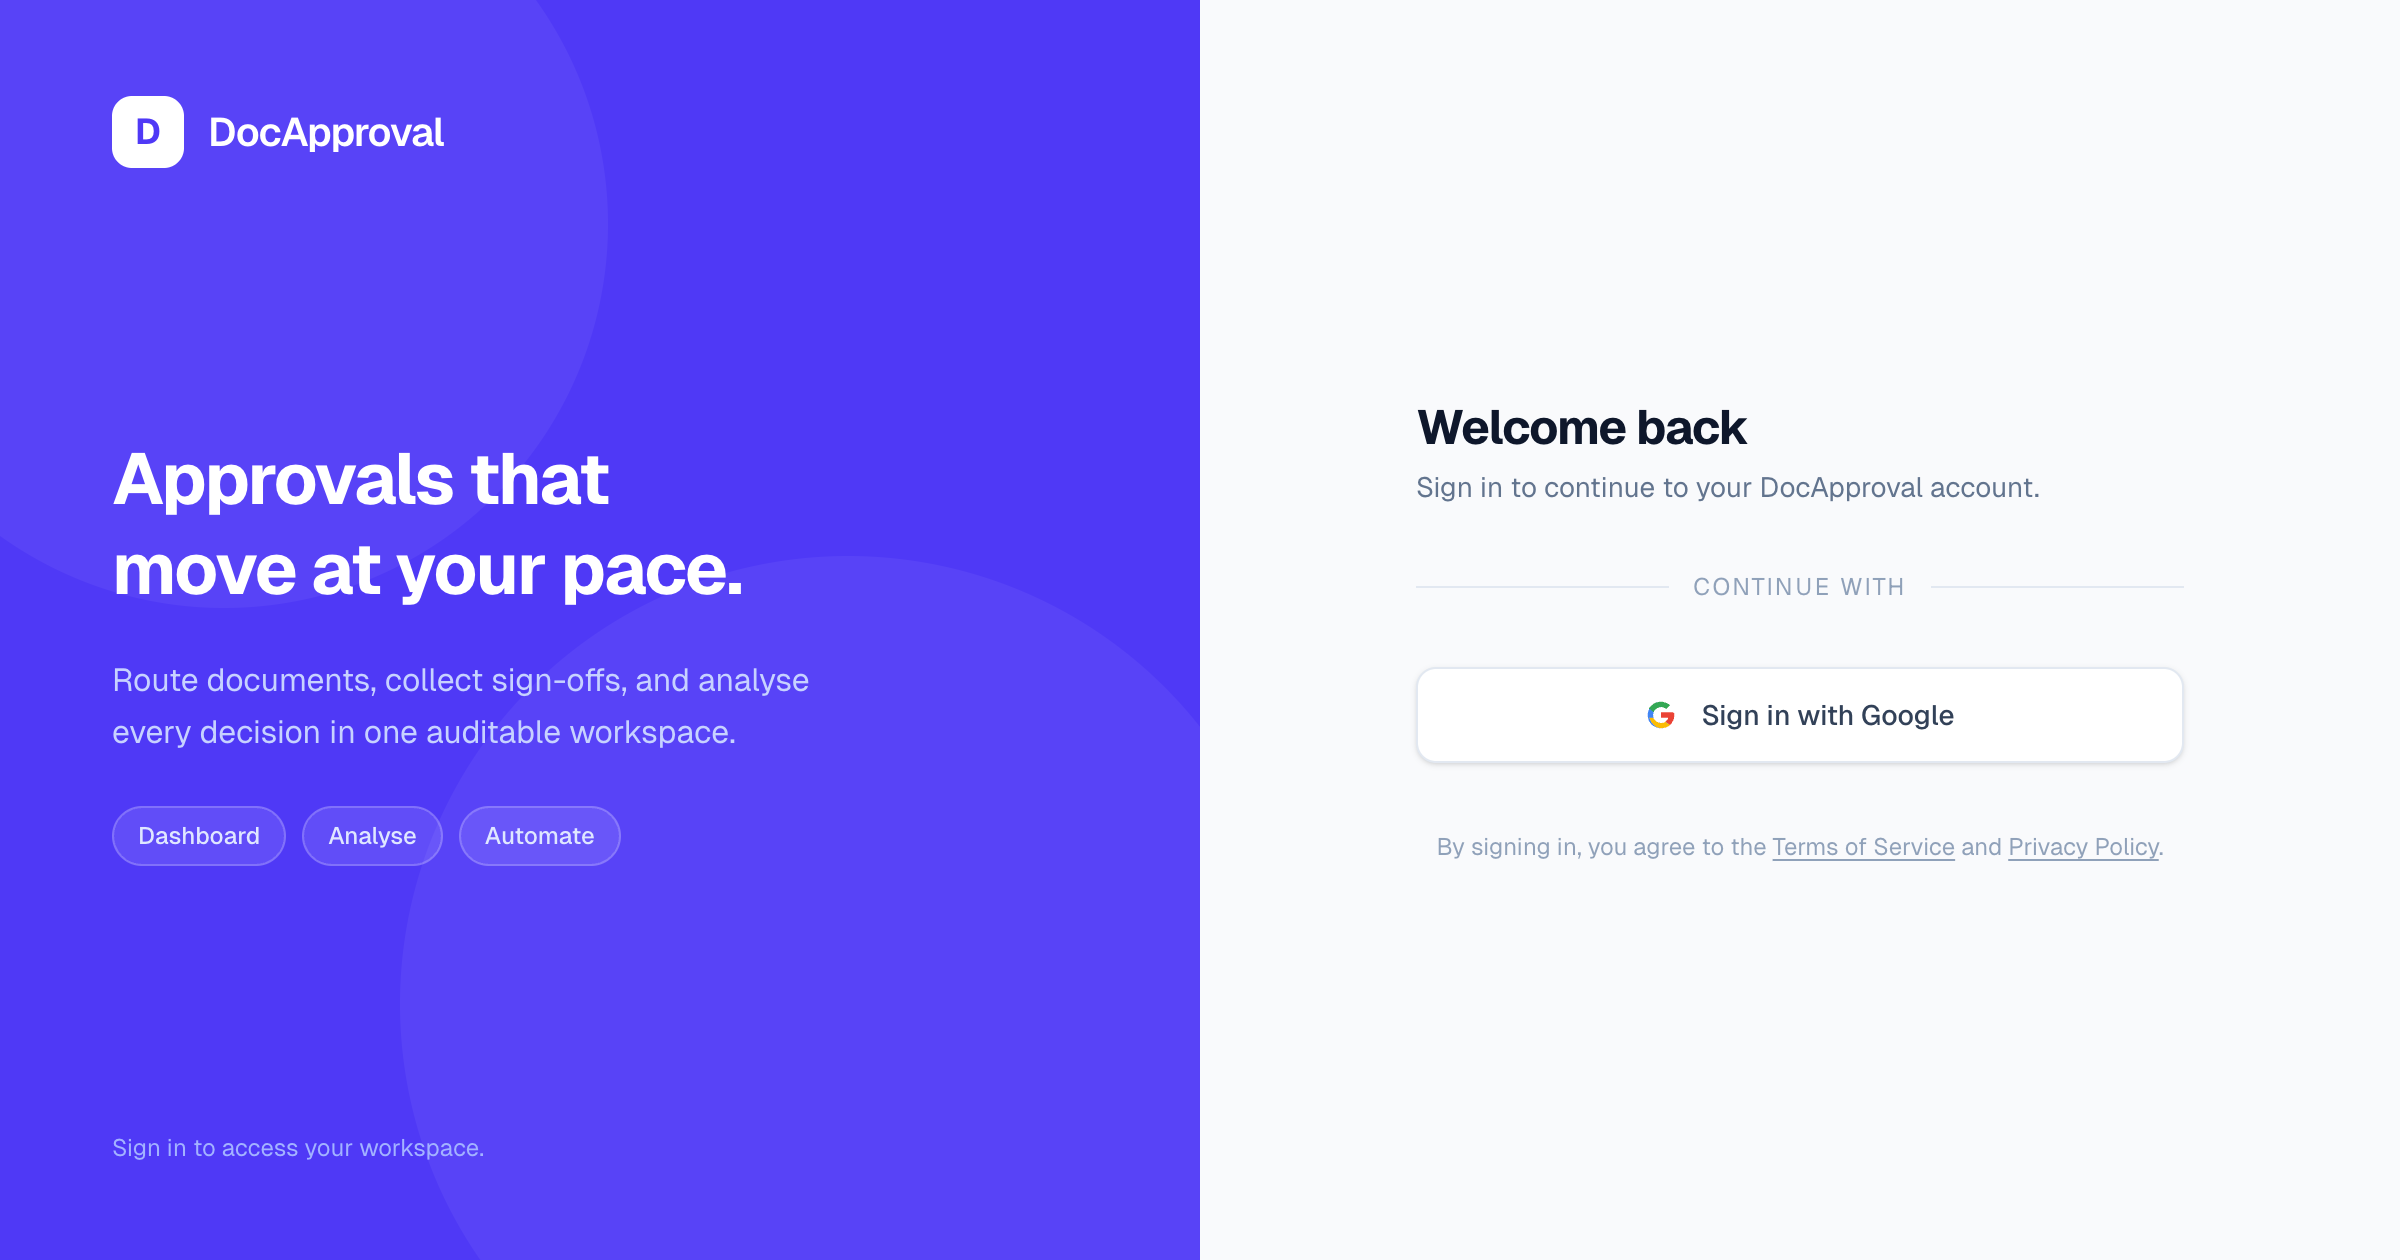
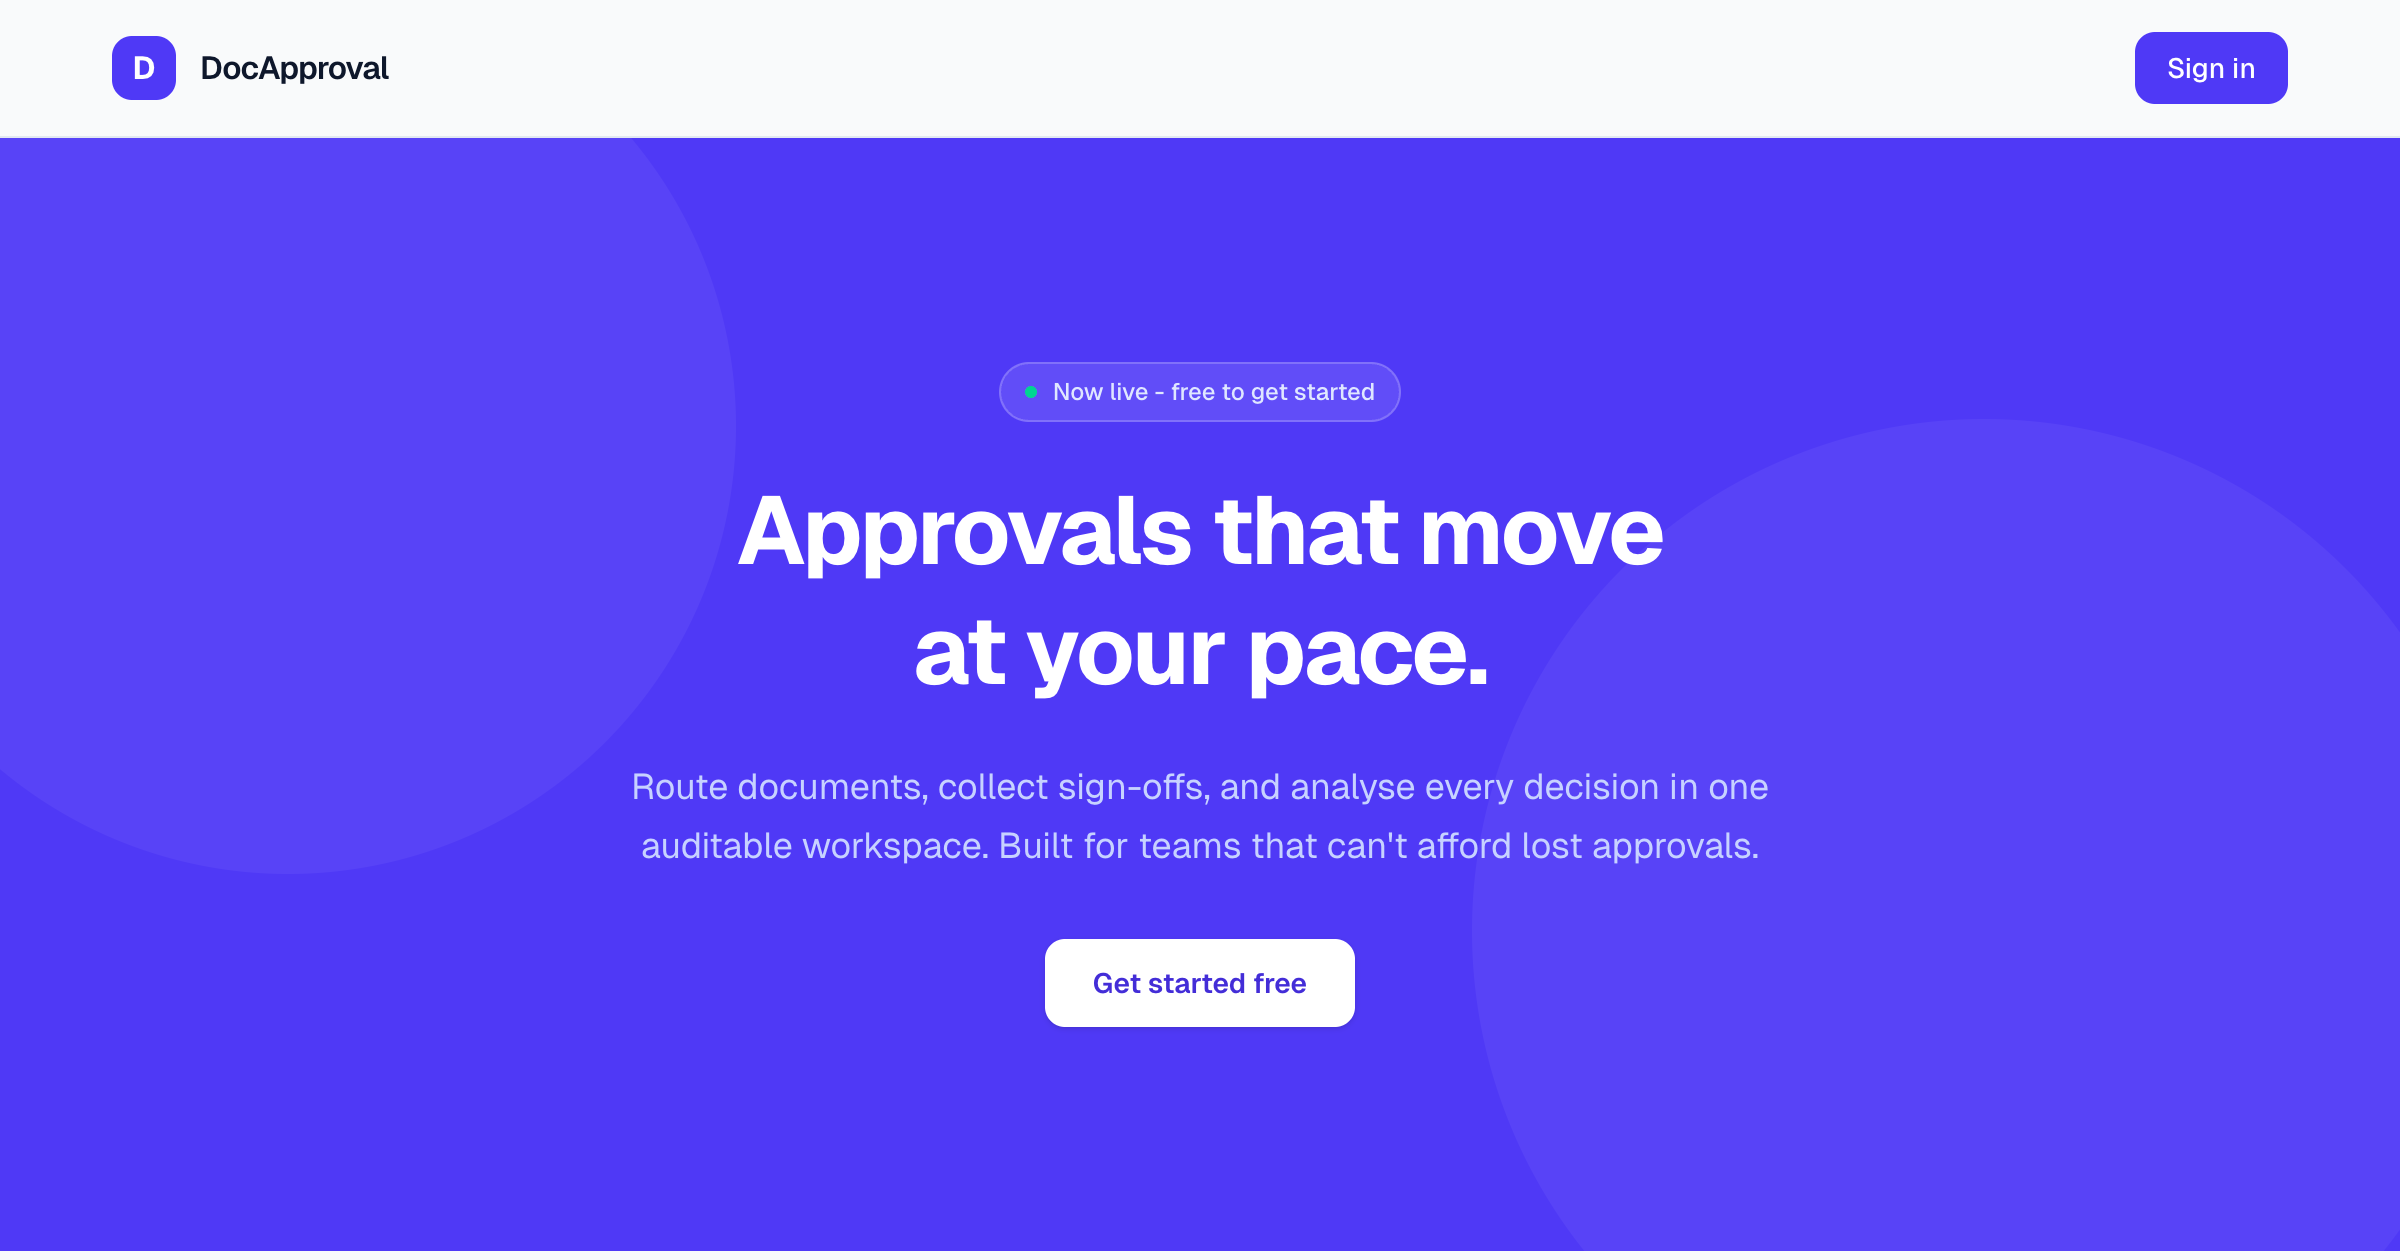
feat: updated dynamic og-image and added a fallback og-image

diff --git a/src/app/opengraph-image.tsx b/src/app/opengraph-image.tsx
@@ -1,33 +1,177 @@
 import { ImageResponse } from "next/og";
 
 export const runtime = "edge";
-export const alt = "DocApproval";
+export const alt = "DocApproval – Approvals that move at your pace.";
 export const size = { width: 1200, height: 630 };
 export const contentType = "image/png";
 
 export default async function Image() {
+    // Load Inter from Google Fonts (edge-compatible)
+    const interSemiBold = await fetch(
+        "https://fonts.gstatic.com/s/inter/v13/UcCO3FwrK3iLTeHuS_fvQtMwCp50KnMw2boKoduKmMEVuLyfAZ9hiA.woff2"
+    ).then((res) => res.arrayBuffer());
+
+    const interBold = await fetch(
+        "https://fonts.gstatic.com/s/inter/v13/UcCO3FwrK3iLTeHuS_fvQtMwCp50KnMw2boKoduKmMEVuFuYAZ9hiA.woff2"
+    ).then((res) => res.arrayBuffer());
+
     return new ImageResponse(
         (
             <div
                 style={{
-                    background: "#0a0a0a",
                     width: "100%",
                     height: "100%",
                     display: "flex",
                     flexDirection: "column",
                     alignItems: "center",
                     justifyContent: "center",
-                    fontFamily: "sans-serif",
+                    background: "#4f46e5", // indigo-600
+                    position: "relative",
+                    overflow: "hidden",
+                    fontFamily: "Inter",
                 }}
             >
-                <div style={{ fontSize: 72, fontWeight: 700, color: "#ffffff" }}>
-                    DocApproval
-                </div>
-                <div style={{ fontSize: 32, color: "#888888", marginTop: 16 }}>
-                    Streamline your document approval workflow
+                {/* Decorative ring — top-left (matches homepage -top-20 -left-20 w-[28rem]) */}
+                <div
+                    style={{
+                        position: "absolute",
+                        top: -120,
+                        left: -120,
+                        width: 560,
+                        height: 560,
+                        borderRadius: "50%",
+                        background: "rgba(255,255,255,0.05)",
+                    }}
+                />
+
+                {/* Decorative ring — bottom-right (matches homepage -bottom-24 -right-12 w-[32rem]) */}
+                <div
+                    style={{
+                        position: "absolute",
+                        bottom: -140,
+                        right: -80,
+                        width: 640,
+                        height: 640,
+                        borderRadius: "50%",
+                        background: "rgba(255,255,255,0.05)",
+                    }}
+                />
+
+                {/* Content stack */}
+                <div
+                    style={{
+                        display: "flex",
+                        flexDirection: "column",
+                        alignItems: "center",
+                        gap: 0,
+                        zIndex: 10,
+                        maxWidth: 900,
+                        textAlign: "center",
+                        padding: "0 48px",
+                    }}
+                >
+                    {/* Logo mark */}
+                    <div
+                        style={{
+                            display: "flex",
+                            alignItems: "center",
+                            gap: 14,
+                            marginBottom: 32,
+                        }}
+                    >
+                        <div
+                            style={{
+                                width: 52,
+                                height: 52,
+                                borderRadius: 12,
+                                background: "#ffffff",
+                                display: "flex",
+                                alignItems: "center",
+                                justifyContent: "center",
+                                color: "#4338ca", // indigo-700
+                                fontWeight: 700,
+                                fontSize: 26,
+                            }}
+                        >
+                            D
+                        </div>
+                        <span
+                            style={{
+                                color: "#ffffff",
+                                fontWeight: 600,
+                                fontSize: 28,
+                                letterSpacing: "-0.02em",
+                            }}
+                        >
+                            DocApproval
+                        </span>
+                    </div>
+
+                    {/* "Now live" badge */}
+                    <div
+                        style={{
+                            display: "flex",
+                            alignItems: "center",
+                            gap: 8,
+                            padding: "8px 18px",
+                            borderRadius: 9999,
+                            background: "rgba(255,255,255,0.10)",
+                            border: "1px solid rgba(255,255,255,0.20)",
+                            color: "#e0e7ff", // indigo-100
+                            fontSize: 18,
+                            fontWeight: 500,
+                            marginBottom: 28,
+                        }}
+                    >
+                        <div
+                            style={{
+                                width: 10,
+                                height: 10,
+                                borderRadius: "50%",
+                                background: "#34d399", // emerald-400
+                            }}
+                        />
+                        Now live · free to get started
+                    </div>
+
+                    {/* Headline */}
+                    <div
+                        style={{
+                            color: "#ffffff",
+                            fontWeight: 700,
+                            fontSize: 72,
+                            lineHeight: 1.1,
+                            letterSpacing: "-0.03em",
+                            marginBottom: 24,
+                        }}
+                    >
+                        Approvals that move
+                        <br />
+                        at your pace.
+                    </div>
+
+                    {/* Sub-copy */}
+                    <div
+                        style={{
+                            color: "#c7d2fe", // indigo-200
+                            fontSize: 26,
+                            lineHeight: 1.5,
+                            fontWeight: 400,
+                            maxWidth: 720,
+                        }}
+                    >
+                        Route documents, collect sign-offs, and audit every decision
+                        in one workspace.
+                    </div>
                 </div>
             </div>
         ),
-        { ...size }
+        {
+            ...size,
+            fonts: [
+                { name: "Inter", data: interSemiBold, style: "normal", weight: 400 },
+                { name: "Inter", data: interBold, style: "normal", weight: 700 },
+            ],
+        }
     );
 }

diff --git a/src/app/layout.tsx b/src/app/layout.tsx
@@ -32,27 +32,12 @@ export const metadata: Metadata = {
   },
   openGraph: {
     ...seoConfig.openGraph,
-    // images: [
-    //   {
-    //     url: "/images/og-image.png",
-    //     width: 1200,
-    //     height: 630,
-    //     alt: "DocApproval",
-    //   },
-    // ],
   },
   twitter: {
     card: "summary_large_image",
     site: seoConfig.twitter.site,
     creator: seoConfig.twitter.creator,
-    // images: [
-    //   {
-    //     url: "/images/og-image.png",
-    //     width: 1200,
-    //     height: 630,
-    //     alt: "DocApproval",
-    //   },
-    // ],
+    images: seoConfig.twitter.images,
   },
   icons: {
     icon: [{ url: "/favicon.ico" }],

diff --git a/src/seo.config.ts b/src/seo.config.ts
@@ -7,12 +7,23 @@ export const seoConfig = {
     locale: "en_US",
     url: "https://docapproval.vercel.app",
     siteName: "DocApproval",
+    images: [
+      {
+        url: "/opengraph-image",
+      },
+      {
+        url: "/images/og-image.png",
+        width: 1200,
+        height: 630,
+        alt: "DocApproval",
+      },
+    ],
   },
   twitter: {
     card: "summary_large_image",
     site: "@docapproval",
     handle: "@docapproval",
     creator: "@singhaditya5711",
-    // images: ["https://docapproval.vercel.app/images/og-image.png"]
+    images: ["/images/og-image.png"],
   },
 };
